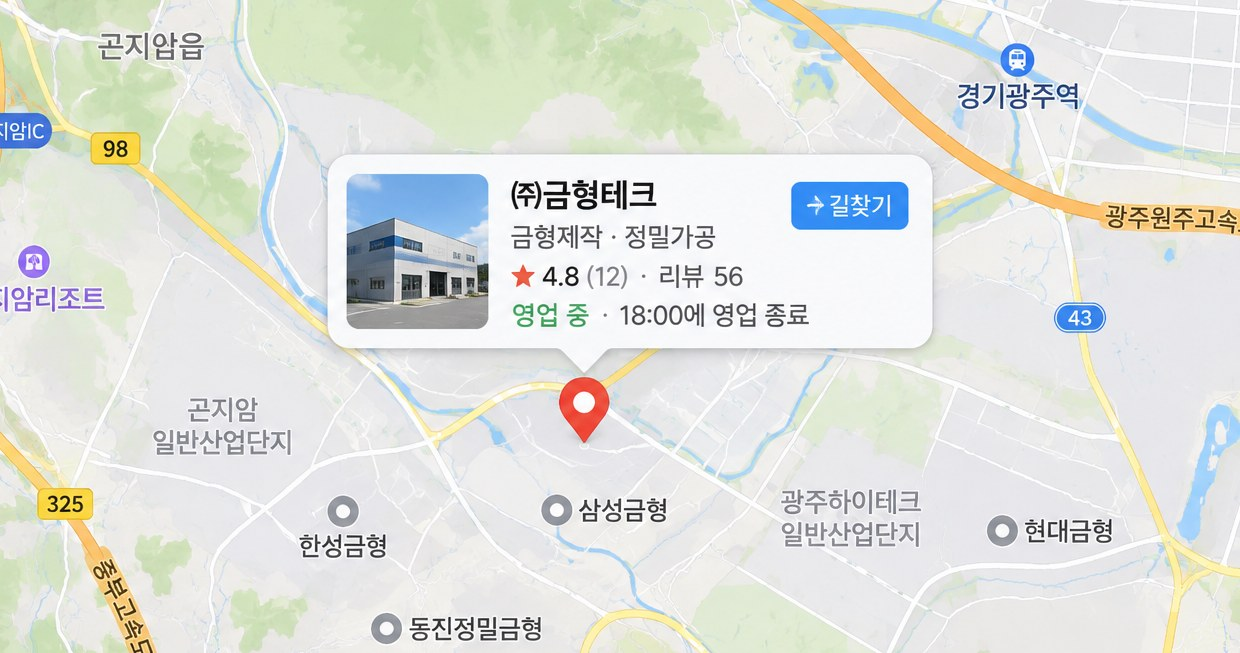
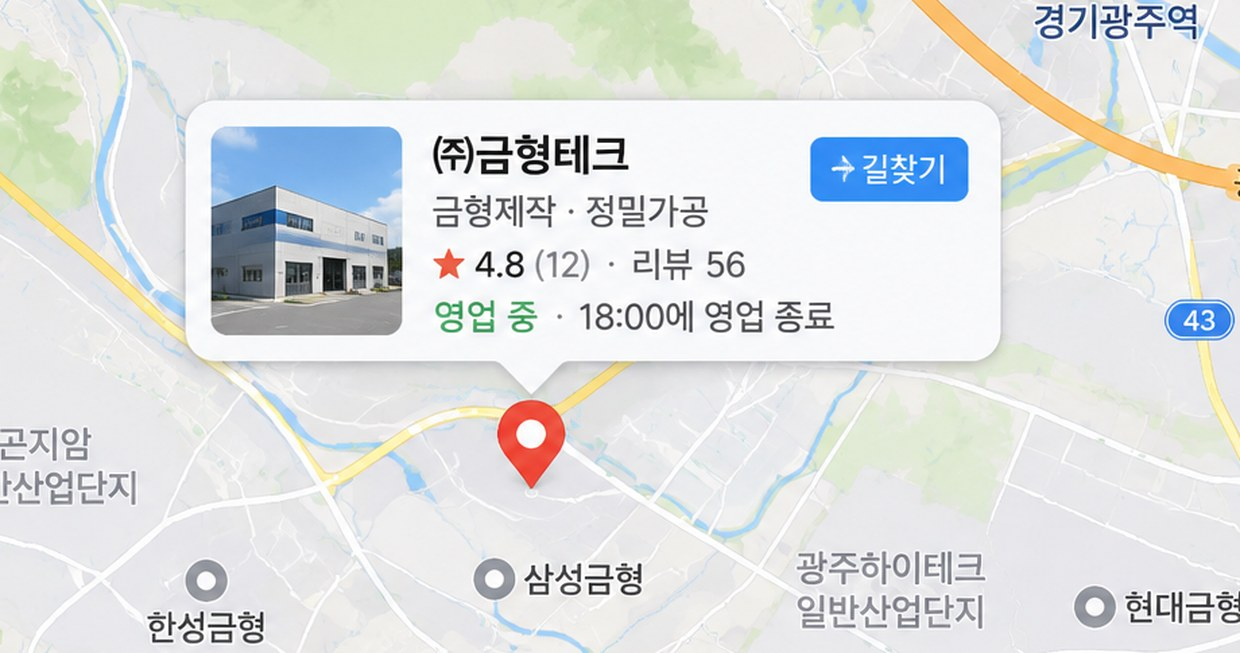
카드 03 지도 이미지 확대
Claude-Session: https://claude.ai/code/session_01M1b62wYPapP5RB8WQrccVh

diff --git a/app/Views/site/pages/corporate.php b/app/Views/site/pages/corporate.php
@@ -120,7 +120,7 @@
     <div class="dt-cards stg rv">
       <div class="dt-card dt-card--ph"><div class="dt-card__ph"><img src="assets/corp-find-product2.jpg" alt="네이버에서 스테인리스 배관 부품 제조를 검색하면 맨 위에 나오는 회사 홈페이지" width="1240" height="653" loading="lazy"></div><span class="n">01</span><span class="lab">제품</span><p class="q">스테인리스 배관 부품 제조</p><p>제품별 상세 화면과 규격 정보</p></div>
       <div class="dt-card dt-card--ph"><div class="dt-card__ph"><img src="assets/corp-find-tech3.jpg" alt="CNC 장비로 스테인리스 부품을 정밀가공하는 모습" width="1536" height="809" loading="lazy"></div><span class="n">02</span><span class="lab">기술</span><p class="q">정밀 가공 가능한 업체</p><p>보유 설비 · 기술 소개 화면</p></div>
-      <div class="dt-card dt-card--ph"><div class="dt-card__ph"><img src="assets/corp-find-region2.jpg" alt="지도 검색에서 회사 위치와 영업 정보가 보이는 화면" width="1240" height="653" loading="lazy"></div><span class="n">03</span><span class="lab">지역</span><p class="q">경기도 금형 업체</p><p>회사 위치와 서비스 지역 표시</p></div>
+      <div class="dt-card dt-card--ph"><div class="dt-card__ph"><img src="assets/corp-find-region2.jpg?v=2" alt="지도 검색에서 회사 위치와 영업 정보가 보이는 화면" width="1240" height="653" loading="lazy"></div><span class="n">03</span><span class="lab">지역</span><p class="q">경기도 금형 업체</p><p>회사 위치와 서비스 지역 표시</p></div>
       <div class="dt-card dt-card--ph"><div class="dt-card__ph"><img src="assets/corp-find-process.jpg?v=2" alt="ISO 인증과 OEM 생산 부품" width="930" height="490" loading="lazy"></div><span class="n">04</span><span class="lab">공정</span><p class="q">OEM 생산 문의</p><p>생산 절차와 문의 방법 안내</p></div>
     </div>
   </div>
